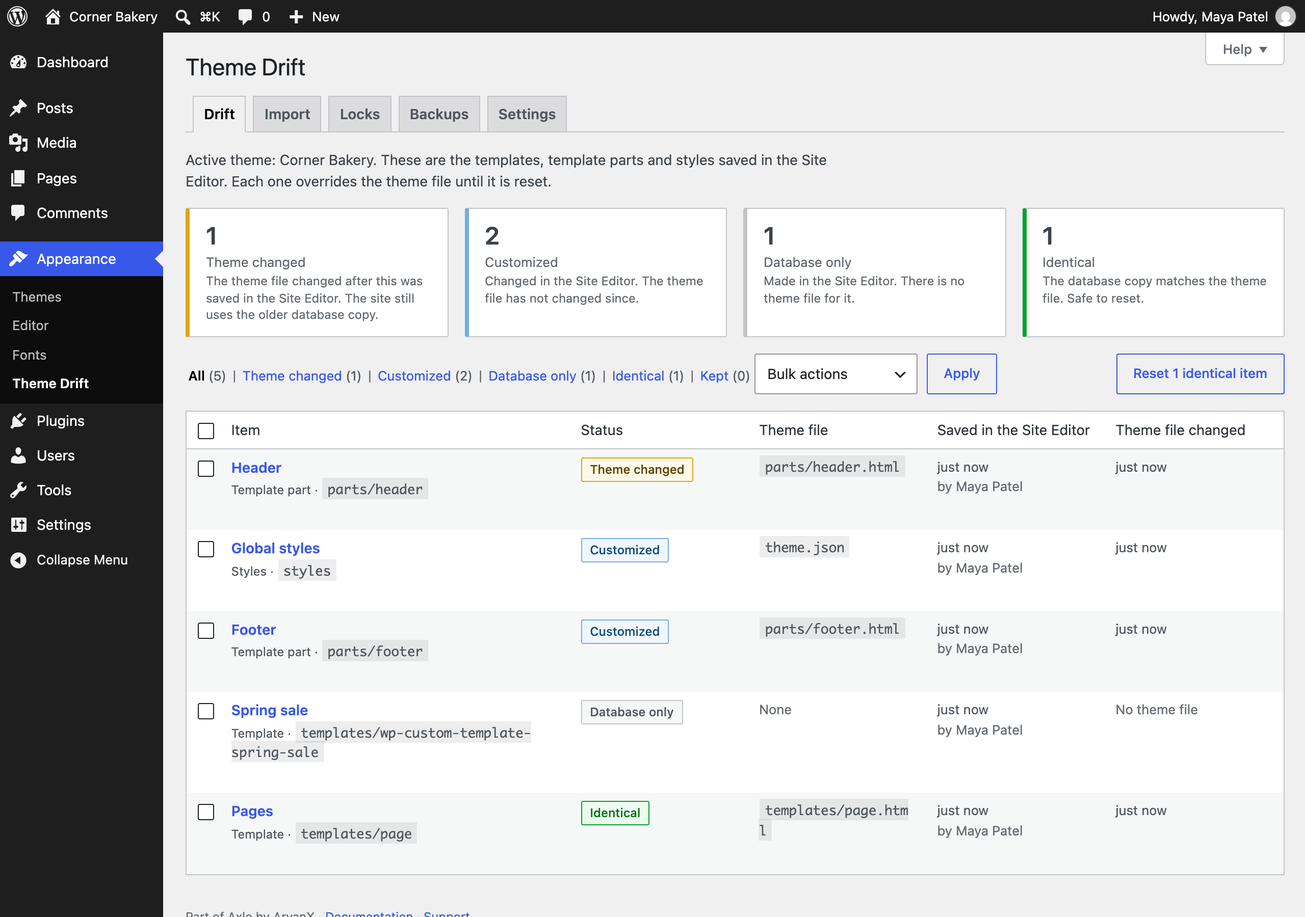
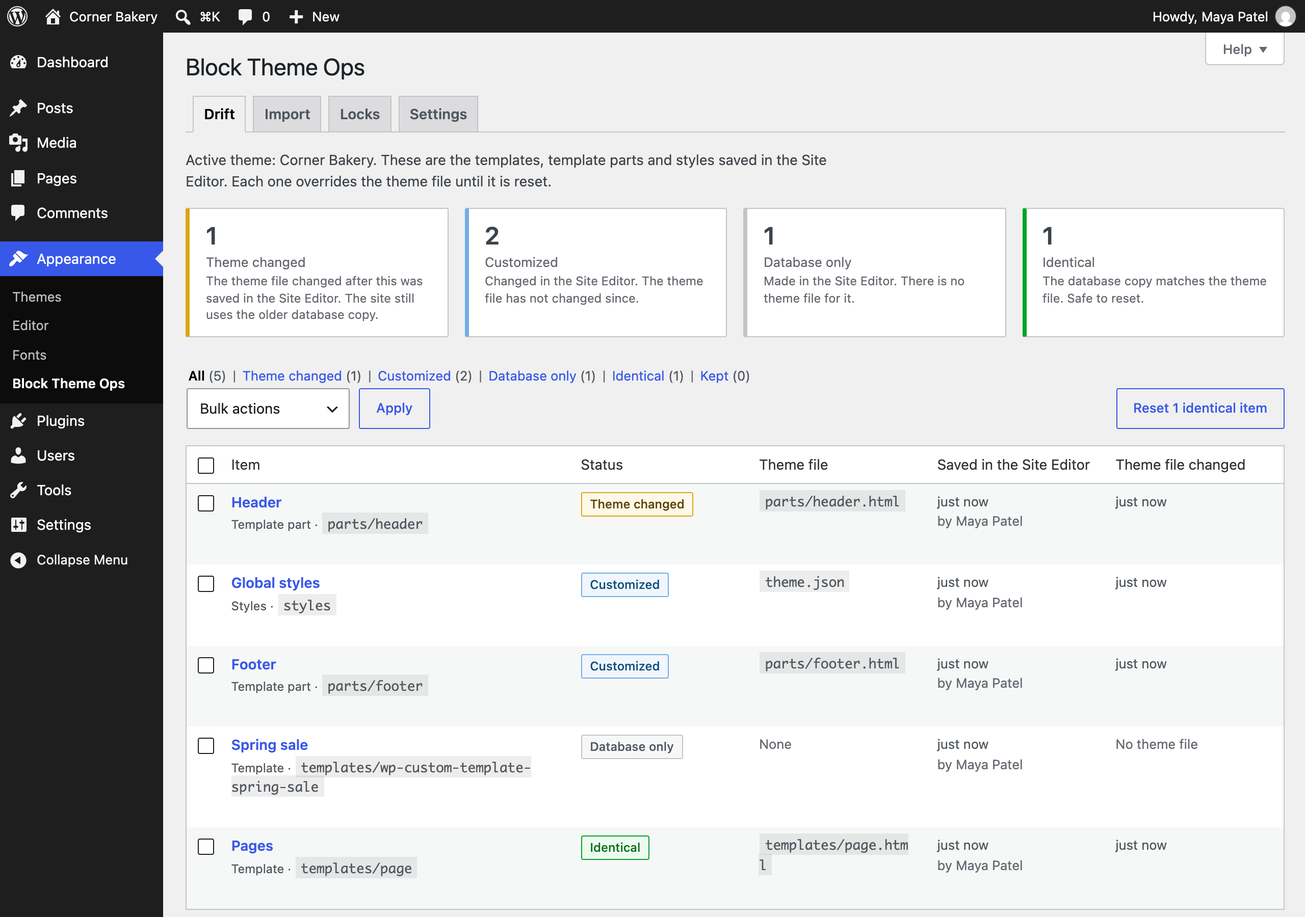
fix: plugin check findings, merge preview styles

diff --git a/assets/editor-drift.js b/assets/editor-drift.js
@@ -12,7 +12,7 @@
 
 	var config = window.blockThemeOpsDrift;
 	var wp = window.wp;
-	if ( ! config || ! wp || ! wp.data || ! wp.apiFetch || ! wp.element || ! wp.components ) {
+	if ( ! config || ! wp || ! wp.data || ! wp.apiFetch || ! wp.element || ! wp.element.createRoot || ! wp.components ) {
 		return;
 	}
 
@@ -77,13 +77,8 @@
 			)
 		);
 
-		if ( wp.element.createRoot ) {
-			modalRoot = wp.element.createRoot( host );
-			modalRoot.render( tree );
-		} else {
-			wp.element.render( tree, host );
-			modalRoot = { unmount: function () { wp.element.unmountComponentAtNode( host ); } };
-		}
+		modalRoot = wp.element.createRoot( host );
+		modalRoot.render( tree );
 	}
 
 	function announce( drift ) {

diff --git a/src/Admin/DriftPage.php b/src/Admin/DriftPage.php
@@ -2044,7 +2044,18 @@ final class DriftPage implements Service {
 					<a href="<?php echo esc_url( (string) $notice['url'] ); ?>" class="bto-pr-link" target="_blank" rel="noopener noreferrer"><?php echo esc_html( (string) $notice['url'] ); ?></a>
 				<?php endif; ?>
 				<?php if ( ! empty( $notice['settings'] ) ) : ?>
-					<a href="<?php echo esc_url( self::url( array( 'tab' => 'settings', 'github' => 1 ) ) ); ?>" class="bto-settings-link"><?php esc_html_e( 'Open the GitHub settings', 'block-theme-ops' ); ?></a>
+					<a href="
+					<?php
+					echo esc_url(
+						self::url(
+							array(
+								'tab'    => 'settings',
+								'github' => 1,
+							) 
+						) 
+					);
+					?>
+								" class="bto-settings-link"><?php esc_html_e( 'Open the GitHub settings', 'block-theme-ops' ); ?></a>
 				<?php endif; ?>
 			</p>
 			<?php if ( ! empty( $notice['undo'] ) ) : ?>
@@ -2181,7 +2192,14 @@ final class DriftPage implements Service {
 		printf(
 			/* translators: %s: link to the Settings tab. */
 			esc_html__( 'Pull requests need a repository and a token. Set them up under %s first.', 'block-theme-ops' ),
-			'<a href="' . esc_url( self::url( array( 'tab' => 'settings', 'github' => 1 ) ) ) . '">' . esc_html__( 'Settings', 'block-theme-ops' ) . '</a>'
+			'<a href="' . esc_url(
+				self::url(
+					array(
+						'tab'    => 'settings',
+						'github' => 1,
+					) 
+				) 
+			) . '">' . esc_html__( 'Settings', 'block-theme-ops' ) . '</a>'
 		);
 	}
 

diff --git a/src/Merger.php b/src/Merger.php
@@ -298,8 +298,13 @@ class Merger {
 		$styles = function_exists( 'wp_get_global_stylesheet' ) ? (string) wp_get_global_stylesheet() : '';
 		$html   = self::render( parse_blocks( $markup ) );
 
+		// The block styles come from core's own registered handle, printed the way core prints them.
+		ob_start();
+		wp_styles()->do_items( array( 'wp-block-library' ) );
+		$links = (string) ob_get_clean();
+
 		return '<!doctype html><html><head><meta charset="utf-8"><meta name="viewport" content="width=device-width, initial-scale=1">'
-			. '<link rel="stylesheet" href="' . esc_url( includes_url( 'css/dist/block-library/style.min.css' ) ) . '">'
+			. $links
 			. '<style>' . str_replace( '</style', '<\/style', $styles ) . ' body{margin:0;padding:16px}</style>'
 			. '</head><body class="wp-site-blocks">' . $html . '</body></html>';
 	}

diff --git a/docs/REFERENCE.md b/docs/REFERENCE.md
@@ -24,14 +24,44 @@ Templates and parts are looked up in the active theme first, then in its parent,
 ## Reset, undo and keep
 
 - **Reset** deletes the database copy of a template or part, or empties the global styles layer, so the theme file takes over. A backup goes into a private `bto_backup` post first. Items without a theme file cannot be reset.
-- **Undo** puts the copy back with its original post ID, theme, area and snapshot, for 30 days by default (`block_theme_ops_backup_days`). It refuses when someone customized the item again since the reset, or when the same database copy is back already, say through an undo in an activity log. The Backups tab says which one up front, instead of offering Undo.
+- **Undo** (in the list under the items on the main screen) puts the copy back with its original post ID, theme, area and snapshot, for 30 days by default (`block_theme_ops_backup_days`). It refuses when someone customized the item again since the reset, or when the same database copy is back already, say through an undo in an activity log. The Undo list says which one up front, instead of offering Undo.
 - **Keep** marks the copy as wanted. It drops out of the list, the notice, Site Health and the email until the theme file changes again. **List again** undoes it.
+
+## Merge a theme update
+
+**Merge theme changes** (on an item whose status is `theme-changed`) combines the theme's new version with the Site Editor copy, so you get the theme's fix without losing your change. Reset throws your change away and Keep ignores the theme's. Merge keeps both where it can.
+
+The three versions are:
+
+- **base**: the snapshot of the theme file, taken when the database copy was saved
+- **ours**: the database copy
+- **theirs**: the theme file now
+
+Each is read with `parse_blocks()` and compared block by block. Blocks have no IDs, so they match by name and attributes first (identical blocks, in order), then by name between blocks that matched, then by name and attributes anywhere. The `theme` attribute that the Site Editor adds to template part blocks, attribute order and whitespace are ignored.
+
+| What happened | Result |
+| --- | --- |
+| Only the theme changed, added or removed a block | The theme's version is used |
+| Only the site changed, added or removed a block | The site's version is kept |
+| Both made the same change | That change |
+| Both changed the same block differently | A **conflict**: keep this site's version or use the theme's |
+| One removed a block the other changed | A conflict: keep it removed, or bring the changed block back |
+| Both moved blocks into different orders | A conflict on the order |
+| Different blocks changed in the same group | Merged inside the group, the group's own settings from whichever side changed them |
+
+If only one side reordered blocks, that order is used. A block both sides changed is one conflict for the whole block, not a text merge inside it, because a text merge could produce markup that no longer matches its attributes.
+
+The merge screen shows what merges on its own, a choice for each conflict (the two versions side by side), the result **rendered** in a sandboxed frame, and the markup before and after. **Merge** stays off until every conflict has a choice, and applies only the result you previewed: if the template or the theme file changes in between, it asks you to look again.
+
+Applying takes one backup (kind `merge`) and writes the merged markup. The snapshot becomes the theme file as it is now, so the next theme update merges from there. **Undo** puts the earlier copy and snapshot back for 30 days, and refuses when someone saved the item again since, so it never throws their work away. Only templates and template parts can be merged: global styles are values, not blocks. An item saved before Block Theme Ops was active has no snapshot of the edit, so it cannot be merged and the screen says why.
+
+In the Site Editor, opening such a template or part shows a notice with **See what the theme changed** (the theme's own diff, in a dialog), **Merge** and **Reset**. The notice reads `GET /wp-json/block-theme-ops/v1/drift?type=wp_template_part&slug=header`, which answers only people who can edit that post, and says `drifted: false` to everyone else.
 
 ## Checks and alerts
 
 The theme files are checked right after WordPress updates or replaces the active theme or its parent (`upgrader_process_complete`), once a day by WP-Cron for deploys that bypass WordPress, and on `wp block-theme-ops check`. Items that went `theme-changed` since the last check, and are not kept, raise:
 
-- a notice for everyone with the capability on the Dashboard, Themes, Site Editor and Updates screens (`block_theme_ops_notice_screens`), and a count on the Theme Drift menu, until they are reset, kept or dismissed
+- a notice for everyone with the capability on the Dashboard, Themes, Site Editor and Updates screens (`block_theme_ops_notice_screens`), and a count on the Block Theme Ops menu, until they are reset, kept or dismissed
 - a Site Health recommendation
 - an email to the site admin, when turned on under **Settings**
 
@@ -53,7 +83,7 @@ The token comes from, in order: the `BLOCK_THEME_OPS_GITHUB_TOKEN` constant, an 
 
 ## Import
 
-**Import** on the Theme Drift screen moves Site Editor changes from one site to another, say staging to production.
+**Import** on the Block Theme Ops screen moves Site Editor changes from one site to another, say staging to production.
 
 1. On the first site, **Download zip** (or `wp block-theme-ops export --zip=<file>`). Besides the theme files, the zip holds `block-theme-ops.json`: the site address, the slug of every navigation menu the markup points at, the address of every media file it uses and the area of each template part.
 2. On the second site, upload the zip on the **Import** tab. Nothing is written yet. A plain zip laid out like the theme (`templates/*.html`, `parts/*.html`, `theme.json`, with or without a folder around them) works too.
@@ -77,8 +107,9 @@ The zip is only read as text. Paths with `..`, absolute paths, symbolic links, a
 Locks stop Site Editor saves of templates that are deployed from your theme repository.
 
 - Lock single items on the **Locks** tab (`templates/<slug>`, `parts/<slug>`, `styles`), or everything that has a theme file. Templates made only in the Site Editor have no theme file and stay open.
-- A locked item is refused on the REST routes the Site Editor saves through (`/wp/v2/templates`, `/wp/v2/template-parts`, `/wp/v2/global-styles`, also autosaves and revisions) with a 403 `block_theme_ops_locked` error, the message and an optional link in its data. The Site Editor shows a notice when someone opens a locked item.
-- Locks are enforced on the environments you tick, by `wp_get_environment_type()`. Production only is the default. Set `WP_ENVIRONMENT_TYPE` in wp-config.php.
+- A locked item is refused on the REST routes the Site Editor saves through (`/wp/v2/templates`, `/wp/v2/template-parts`, `/wp/v2/global-styles`, and a locked item's `/wp/v2/navigation`, also autosaves and revisions) with a 403 `block_theme_ops_locked` error, the message and an optional link in its data. The Site Editor shows a notice when someone opens a locked item.
+- Locks are enforced on the environments you tick, by the environment type Axle reports (`axle_environment_type`, which starts as `wp_get_environment_type()`). Staging Guard answers that filter on a copy it marks as staging, so a copy of production is free to edit even though core still says production there. Production only is the default. Set `WP_ENVIRONMENT_TYPE` in wp-config.php.
+- A **navigation menu** (`wp_navigation` post) that a locked template or part shows, directly or through a template part it includes, is locked with it: its REST route (`/wp/v2/navigation/<id>`) refuses writes and deletes with the same error, and the Site Editor shows the lock notice when the menu is open. Other menus stay open.
 - Nobody can override a lock by default. Turn the lock off on the Locks tab, or give a role the `block_theme_ops_lock_override_capability` capability. Managing locks needs `edit_theme_options` (`block_theme_ops_lock_capability`).
 - Reset, Import and Undo of this plugin write through PHP, not REST, so locks never block them. A lock stops new saves; a copy saved earlier stays until it is reset, and Site Health says so.
 - It works next to Axle Read-Only Mode: a freeze refuses writes of every kind, a lock refuses these items only, and both answer with a clear error.
@@ -87,14 +118,14 @@ Locks stop Site Editor saves of templates that are deployed from your theme repo
 
 | Hook | Type | Use |
 | --- | --- | --- |
-| `block_theme_ops_capability` | filter | `( string $capability )`. Who may use Theme Drift and the abilities. Default `edit_theme_options` |
+| `block_theme_ops_capability` | filter | `( string $capability )`. Who may use Block Theme Ops and the abilities. Default `edit_theme_options` |
 | `block_theme_ops_post_types` | filter | `( string[] $post_types )`. Tracked types. Default `wp_template`, `wp_template_part`, `wp_global_styles`. Other types are dropped |
 | `block_theme_ops_status` | filter | `( string $status, array $item )`. Change one item's status. `db-only` is only allowed for items without a file, and the other statuses only for items with one |
 | `block_theme_ops_check_schedule` | filter | `( string $recurrence )`. How often the scheduled check runs. Default `daily`. Must be a schedule from `wp_get_schedules()` |
 | `block_theme_ops_notify_recipients` | filter | `( string[] $emails, array[] $items )`. Who gets the email. Default the site admin email |
 | `block_theme_ops_notify_email` | filter | `( array $email, array[] $items )`. `to`, `subject`, `message` and `headers` before `wp_mail()`. An empty subject or message sends nothing |
 | `block_theme_ops_notice_message` | filter | `( string $message, array[] $items )`. The admin notice text. Empty hides it |
-| `block_theme_ops_notice_screens` | filter | `( string[] $screen_ids )`. Screens that show the notice. Default `dashboard`, `themes`, `site-editor` and `update-core`. Theme Drift itself never shows it. An empty list shows it nowhere; Site Health still has it |
+| `block_theme_ops_notice_screens` | filter | `( string[] $screen_ids )`. Screens that show the notice. Default `dashboard`, `themes`, `site-editor` and `update-core`. Block Theme Ops itself never shows it. An empty list shows it nowhere; Site Health still has it |
 | `block_theme_ops_undo_blocked_message` | filter | `( string $message, string $reason, array $backup )`. What the Backups tab and Undo say when a reset cannot be undone. `$reason` is `restored` (the same copy is back already) or `customized` (customized again since). Empty falls back to the default |
 | `block_theme_ops_user_name` | filter | `( string $name, int $user_id )`. The name shown for whoever saved, edited or reset an item. Default the display name, `System` when no user was logged in (WP-CLI, WP-Cron, another plugin's undo) or `Deleted user #ID`. Empty falls back to the default |
 | `block_theme_ops_backup_days` | filter | `( int $days )`. How long a reset can be undone. Default 30, kept between 1 and 3650 |
@@ -106,7 +137,7 @@ Locks stop Site Editor saves of templates that are deployed from your theme repo
 | `block_theme_ops_pr_body` | filter | `( string $body, array[] $items, array $files )`. Pull request description, in Markdown |
 | `block_theme_ops_branch_name` | filter | `( string $branch, array[] $items )`. The new branch. Names Git would refuse fall back to the default |
 | `block_theme_ops_git_provider` | filter | `( Provider $provider, Settings $settings )`. Another Git host. Return an `AryanX\Axle\BlockThemeOps\Git\Provider` |
-| `block_theme_ops_import_capability` | filter | `( string $capability )`. Who may import, here and in abilities. Default the Theme Drift capability. Each item is also checked against its post |
+| `block_theme_ops_import_capability` | filter | `( string $capability )`. Who may import, here and in abilities. Default the Block Theme Ops capability. Each item is also checked against its post |
 | `block_theme_ops_import_max_files` | filter | `( int $files )`. Most files in an imported zip. Default 200, kept between 1 and 2000 |
 | `block_theme_ops_import_max_file_size` | filter | `( int $bytes )`. Largest file in the zip once unpacked. Default 1 MiB, kept between 1 KiB and 16 MiB |
 | `block_theme_ops_import_max_size` | filter | `( int $bytes )`. Most the files add up to. Default 4 MiB, kept between 1 KiB and 64 MiB |
@@ -114,7 +145,9 @@ Locks stop Site Editor saves of templates that are deployed from your theme repo
 | `block_theme_ops_import_ttl` | filter | `( int $seconds )`. How long an uploaded zip waits for review. Default one hour, kept between 5 minutes and a day |
 | `block_theme_ops_import_related_theme` | filter | `( bool $related, string $zip_theme, string $active )`. Whether a zip made for another theme may be imported after confirming. Default a child and its parent |
 | `block_theme_ops_import_entries` | filter | `( array[] $entries, array $payload )`. The preview of an import: `key`, `type`, `slug`, `status`, `content` and `live` of each item |
-| `block_theme_ops_lock_capability` | filter | `( string $capability )`. Who may change locks. Default the Theme Drift capability |
+| `block_theme_ops_merge_blocker` | filter | `( string $reason, array $item )`. Return text to stop an item from being merged, shown on the item and in the merge screen. Default empty: it can be merged |
+| `block_theme_ops_locked_navigation_ids` | filter | `( array $ids )`. Navigation post ID => key of the locked item that uses it. Add or remove menus that locks cover |
+| `block_theme_ops_lock_capability` | filter | `( string $capability )`. Who may change locks. Default the Block Theme Ops capability |
 | `block_theme_ops_lock_override_capability` | filter | `( string $capability )`. Who may still save locked items in the Site Editor. Default empty: nobody |
 | `block_theme_ops_lock_environments` | filter | `( string[] $environments )`. Environment types where locks are enforced. Default production, or what the Locks tab says |
 | `block_theme_ops_lock_message` | filter | `( string $message, string $key )`. The text of a refused save and of the Site Editor notice. Empty falls back to the default |
@@ -124,6 +157,8 @@ Locks stop Site Editor saves of templates that are deployed from your theme repo
 | `block_theme_ops_snapshot_saved` | action | `( int $post_id, array $snapshot )`. A snapshot of a theme file was stored |
 | `block_theme_ops_reset` | action | `( array $item, int $backup_id )`. An item was reset to its theme file |
 | `block_theme_ops_reset_undone` | action | `( array $backup, int $post_id )`. A reset was undone |
+| `block_theme_ops_merged` | action | `( array $item, int $backup_id, array $plan )`. A theme update was merged into a database copy. `$plan` has `applied`, `conflicts` (with their choices) and `markup` |
+| `block_theme_ops_merge_undone` | action | `( array $backup, int $post_id )`. A merge was undone |
 | `block_theme_ops_acknowledged` | action | `( array $item )`. Someone chose Keep |
 | `block_theme_ops_backups_expired` | action | `( int[] $backup_ids )`. Backups past their undo window were deleted |
 | `block_theme_ops_exported` | action | `( array $files, array[] $items, string $context )`. Items were exported |
@@ -157,36 +192,39 @@ add_filter( 'block_theme_ops_export_files', function ( $files ) {
 
 Each item is an array: `id` (post ID), `key` (`templates/<slug>`, `parts/<slug>` or `styles`), `type`, `slug`, `title`, `theme`, `file` (path inside the theme, empty when none), `file_theme` (the child or the parent), `status`, `probable`, `kept`, `modified` and `file_modified` (Unix time), `author` and `author_name` (who last saved it, or `System` when no user was logged in).
 
-JavaScript, through `wp.hooks`, on Appearance > Theme Drift:
+JavaScript, through `wp.hooks`, on Appearance > Block Theme Ops:
 
 | Hook | Type | Use |
 | --- | --- | --- |
 | `blockThemeOps.confirmMessage` | filter | `( string message, { action, items } )`. The question asked in place before a reset, an import or a pull request. `{count}` becomes the number of items. Return `''` to skip it |
-| `blockThemeOps.beforeSubmit` | action | `( { action, items } )`. A Theme Drift form is about to be sent. `action` is `reset`, `keep`, `unkeep`, `export`, `pr`, `undo`, `reset_identical`, `import_upload`, `import_apply`, `import_discard` or `save_locks`; `items` are post IDs, or item keys for `import_apply` |
+| `blockThemeOps.beforeSubmit` | action | `( { action, items } )`. A Block Theme Ops form is about to be sent. `action` is `reset`, `keep`, `unkeep`, `export`, `pr`, `undo`, `reset_identical`, `import_upload`, `import_apply`, `import_discard` or `save_locks`; `items` are post IDs, or item keys for `import_apply` |
 
 ```js
 wp.hooks.addFilter( 'blockThemeOps.confirmMessage', 'my-plugin', ( message, details ) => ( 'reset' === details.action ? 'Did you export this first?' : message ) );
 ```
 
-In the Site Editor, when something is locked:
+In the Site Editor:
 
 | Hook | Type | Use |
 | --- | --- | --- |
 | `blockThemeOps.lockMessage` | filter | `( string message, string key )`. The text of the notice shown when a locked item opens |
+| `blockThemeOps.driftMessage` | filter | `( string message, object drift )`. The text of the notice shown when the theme changed a template or part you saved. `drift` has `key`, `auto`, `conflicts`, `canMerge`, `diff` and the two links |
 
 ## Abilities
 
-On WordPress 6.9 and later, Block Theme Ops registers [abilities](https://developer.wordpress.org/apis/abilities/), which AI agents find and run through the [MCP adapter](https://github.com/WordPress/mcp-adapter) and anything else through the REST API under `/wp-abilities/v1/`. Each one is marked public, which the MCP adapter needs before it lists an ability. The drift, diff, reset and export abilities need the Theme Drift capability, and also the edit capability of each post they touch. Import needs the import capability, and locks need the lock capability.
+On WordPress 6.9 and later, Block Theme Ops registers [abilities](https://developer.wordpress.org/apis/abilities/), which AI agents find and run through the [MCP adapter](https://github.com/WordPress/mcp-adapter) and anything else through the REST API under `/wp-abilities/v1/`. Each one is marked public, which the MCP adapter needs before it lists an ability. The drift, diff, reset and export abilities need the Block Theme Ops capability, and also the edit capability of each post they touch. Import needs the import capability, and locks need the lock capability.
 
 | Ability | Does |
 | --- | --- |
 | `block-theme-ops/get-drift-report` | Read-only. Every item with its status, and the counts. Input: `status`, `include_kept` |
 | `block-theme-ops/get-item-diff` | Read-only. The three versions of one `item` and unified diffs: `reset` (file now to database), `theme_changes` (snapshot to file now) and `customization` (snapshot to database) |
+| `block-theme-ops/preview-merge` | Read-only. For one `item` whose theme file changed after it was customized: the changes that merge on their own, the conflicts that need a choice (pass `choices`, conflict ID to `ours` or `theirs`) and the merged markup. Changes nothing |
+| `block-theme-ops/merge-theme-update` | Destructive. Saves that merge after a backup. Every conflict needs a choice in `choices`. Returns the backup ID and when the undo window ends |
 | `block-theme-ops/export-changes` | Read-only. The theme files for `items`, by path. Default: every item that is not identical |
 | `block-theme-ops/reset-to-theme` | Destructive. Resets one `item`, or every identical one with `identical: true`, keeping backups. Returns the backup IDs and when the undo window ends |
 | `block-theme-ops/preview-import` | Read-only. Reads a `zip` (base64) and says what an import would change: each item is new, changed, identical or for another theme, with the navigation menus and media this site lacks. Changes nothing |
 | `block-theme-ops/apply-import` | Destructive. Imports the `zip` (base64), all new and changed items or the keys in `items`, with `confirm_theme` for a child or parent theme. Returns the backup ID and when the undo window ends |
-| `block-theme-ops/undo-change` | Destructive. Undoes a reset or an import from its `backup_id` |
+| `block-theme-ops/undo-change` | Destructive. Undoes a reset, a merge or an import from its `backup_id` |
 | `block-theme-ops/get-locks` | Read-only. What is locked, where it is enforced, and whether it is enforced on this site |
 | `block-theme-ops/set-locks` | Changes the locks, nothing else (idempotent, not destructive). Input: `lock`, `unlock`, `all`, `environments`. Needs the lock capability |
 
@@ -199,6 +237,7 @@ wp block-theme-ops status [--status=<status>] [--kept] [--format=table|csv|json|
 wp block-theme-ops diff <item> [--against=file|theme|snapshot]
 wp block-theme-ops reset <item>... [--yes]
 wp block-theme-ops reset --identical [--yes]
+wp block-theme-ops merge <item> [--dry-run] [--ours=<ids>] [--theirs=<ids>] [--all-ours] [--all-theirs] [--yes]
 wp block-theme-ops undo <backup>
 wp block-theme-ops import <zip> [--dry-run] [--only=<items>] [--confirm-theme] [--yes] [--format=table|csv|json|yaml|count]
 wp block-theme-ops locks [--format=table|csv|json|yaml|count]
@@ -225,6 +264,8 @@ $plugin->drift()->items( array( 'status' => 'theme-changed', 'kept' => false ) )
 $item = $plugin->drift()->get( 'parts/header' );
 $plugin->operations()->reset( $item );           // array( 'item' => ..., 'backup' => 123 ) or WP_Error
 $plugin->operations()->undo( 123 );
+$plan = $plugin->merger()->plan( $item );           // markup, applied changes, conflicts; nothing written
+$plugin->merger()->apply( $item, array( 'c0.1' => 'theirs' ) );  // backs up, then merges; array or WP_Error
 $plugin->exporter()->files( array( $item ), 'cli' );
 $payload = $plugin->importer()->read_zip( '/path/to/staging.zip' );   // array or WP_Error
 $plugin->importer()->plan( $payload );                                // what would change
@@ -244,7 +285,7 @@ $plugin->checker()->run( 'cli' );                // items newly theme-changed
 | `_block_theme_ops_snapshot` post meta | The theme file at the time of the edit: contents, hash, path and time |
 | `_block_theme_ops_editor` post meta | User ID of whoever last saved the item in the Site Editor |
 | `_block_theme_ops_kept`, `_block_theme_ops_notified` post meta | Hash of the theme file when it was kept, and when it was last reported |
-| `bto_backup` posts | Reset items and imports, with the user IDs of who last edited and who reset or imported them, until the undo window ends |
+| `bto_backup` posts | Reset items, merged items and imports, with the user IDs of who last edited and who reset or imported them, until the undo window ends |
 | `block_theme_ops_check` cron event | The scheduled check |
 
 Uninstalling removes all of it on every site of a network. The Site Editor changes themselves stay.

diff --git a/README.md b/README.md
@@ -16,7 +16,7 @@
   <a href="https://github.com/aryanjasala/block-theme-ops/actions/workflows/plugin-check.yml"><img src="https://github.com/aryanjasala/block-theme-ops/actions/workflows/plugin-check.yml/badge.svg" alt="Plugin Check"></a>
 </p>
 
-<p align="center">Find the Site Editor changes that override your theme files, see what a theme deploy left behind, then reset them, send them to Git, import them on another site or lock them.</p>
+<p align="center">Find the Site Editor changes that override your theme files, merge what a theme update changed into them without losing yours, or reset them, send them to Git, import them on another site or lock them.</p>
 
 <p align="center">
   <img src=".github/media/demo.gif" alt="A theme deploy left an edited header behind: the notice, the three-way diff, a pull request, then reset and undo" width="880">
@@ -24,7 +24,7 @@
 
 ---
 
-When someone edits a template, template part or the global styles in the Site Editor, WordPress saves a copy in the database and the site ignores the theme file from then on. Deploy a new version of the theme and nothing tells you the site still shows the old one. Block Theme Ops lists every one of those copies, tells you which ones now hide a newer theme file, and resets them or sends them to the theme's Git repository. It also moves the changes made on staging to production, with a preview first and one Undo, and locks the templates that belong to Git so nobody edits them in the Site Editor by mistake.
+When someone edits a template, template part or the global styles in the Site Editor, WordPress saves a copy in the database and the site ignores the theme file from then on. Deploy a new version of the theme and nothing tells you the site still shows the old one. Block Theme Ops lists every one of those copies, tells you which ones now hide a newer theme file, and merges the theme's new version into your changes, block by block, or resets them or sends them to the theme's Git repository. It also moves the changes made on staging to production, with a preview first and one Undo, and locks the templates that belong to Git so nobody edits them in the Site Editor by mistake.
 
 > [!NOTE]
 > Free and open source under the GPL. No pro version, no upsells, no ads in wp-admin, no tracking. And it stays that way.
@@ -34,12 +34,14 @@ When someone edits a template, template part or the global styles in the Site Ed
 - **Every Site Editor change** of the active theme (and its parent): templates, template parts and global styles, with the theme file, who saved it and when
 - **Drift status**: theme changed (the file changed after the edit, so the site ignores it), customized, database only, identical
 - **Three-way view**: the theme file at the time of the edit, the theme file now and the database copy, as diffs
+- **Merge a theme update** into a customized template or part: the theme's changes and yours are combined block by block. Changes only one side made merge on their own, a block both sides changed asks you which version to keep, and you see the result rendered before anything is saved. One Undo puts your earlier copy back
+- **In the Site Editor**: open a template or part whose theme file changed since you saved it and a notice says so, with **See what the theme changed**, **Merge** and **Reset**
 - **Reset to theme file** with a backup, and **Undo** for 30 days. **Keep** hides an item until its file changes again. Identical copies reset in bulk
 - **After a theme update**, and once a day for Git or SFTP deploys: an admin notice, a Site Health check and an optional email
 - **Export** a zip laid out like the theme, or open a **GitHub pull request** with the changes as one commit
 - **WP-CLI** for every action, with `wp block-theme-ops check` exiting 1 for CI and deploy scripts, and **abilities** for AI agents on WordPress 6.9+
 - **Import** the zip of another site (staging to production): a preview per item (new, changed, identical or for another theme), a three-way view where this site has its own change, navigation menus mapped by slug, the site address rewritten and missing media listed. One Undo for 30 days
-- **Locks** stop Site Editor and REST saves of chosen templates, template parts or the global styles, on production by default, with a message that says where to change them and a notice when the Site Editor opens
+- **Locks** stop Site Editor and REST saves of chosen templates, template parts or the global styles, and of the navigation menus a locked part uses. They are on in production by default, follow Staging Guard's environment on copies, and say where to change things when the Site Editor opens
 
 ## Install
 
@@ -62,6 +64,14 @@ Stop a deploy, or fail CI, when Site Editor changes hide the new theme files:
 wp block-theme-ops check || wp block-theme-ops status --status=theme-changed
 wp block-theme-ops diff parts/header --against=theme
 wp block-theme-ops export --pr
+```
+
+Merge the theme's new version into a customized template, keeping your change:
+
+```sh
+wp block-theme-ops merge parts/header --dry-run
+wp block-theme-ops merge parts/header --all-ours --yes
+wp block-theme-ops undo 124
 ```
 
 Move the changes made on staging to production, then undo if it is wrong:
@@ -89,7 +99,7 @@ define( 'BLOCK_THEME_OPS_GITHUB_TOKEN', 'github_pat_...' );
 
 <table>
   <tr>
-    <td width="50%" valign="top"><img src=".wordpress-org/screenshot-1.png" alt="Appearance > Theme Drift: counts per status and every Site Editor change of the active theme"><br><sub>Appearance > Theme Drift: counts per status and every Site Editor change of the active theme</sub></td>
+    <td width="50%" valign="top"><img src=".wordpress-org/screenshot-1.png" alt="Appearance > Block Theme Ops: counts per status and every Site Editor change of the active theme"><br><sub>Appearance > Block Theme Ops: counts per status and every Site Editor change of the active theme</sub></td>
     <td width="50%" valign="top"><img src=".wordpress-org/screenshot-2.png" alt="One template part: the database copy against the theme file now, and what the theme changed since the edit"><br><sub>One template part: the database copy against the theme file now, and what the theme changed since the edit</sub></td>
   </tr>
   <tr>
@@ -99,6 +109,13 @@ define( 'BLOCK_THEME_OPS_GITHUB_TOKEN', 'github_pat_...' );
   <tr>
     <td width="50%" valign="top"><img src=".wordpress-org/screenshot-5.png" alt="The Import tab: what a zip from another site would change, item by item"><br><sub>The Import tab: what a zip from another site would change, item by item</sub></td>
     <td width="50%" valign="top"><img src=".wordpress-org/screenshot-6.png" alt="The Locks tab: which templates cannot be saved from the Site Editor"><br><sub>The Locks tab: which templates cannot be saved from the Site Editor</sub></td>
+  </tr>
+  <tr>
+    <td width="50%" valign="top"><img src=".wordpress-org/screenshot-7.png" alt="Merging a theme update: what merges on its own, a choice for the one conflict, and the result"><br><sub>Merging a theme update: what merges on its own, a choice for the one conflict, and the result</sub></td>
+    <td width="50%" valign="top"><img src=".wordpress-org/screenshot-8.png" alt="The Site Editor says the theme changed a template, with the diff, Merge and Reset"><br><sub>The Site Editor says the theme changed a template, with the diff, Merge and Reset</sub></td>
+  </tr>
+  <tr>
+    <td width="50%" valign="top"><img src=".wordpress-org/screenshot-9.png" alt="Undo for a merge and a reset, in the list under the items"><br><sub>Undo for a merge and a reset, in the list under the items</sub></td>
   </tr>
 </table>
 
@@ -125,6 +142,9 @@ src/
 ├── Snapshots.php          snapshot of the theme file on every save
 ├── Markup.php             compares and pretty-prints block markup
 ├── StylesJson.php         the global styles layer on top of theme.json
+├── BlockMerge.php         the three-way merge of block trees, pure
+├── Merger.php             plans, applies and undoes a merge
+├── Rest.php               the route behind the Site Editor drift notice
 ├── Operations.php         reset, undo and keep
 ├── Backups.php            backups behind Undo
 ├── Alerts.php             items waiting for review
@@ -136,10 +156,10 @@ src/
 ├── Diff.php               unified diffs for WP-CLI and abilities
 ├── Abilities.php          abilities for AI agents (WordPress 6.9+)
 ├── Privacy.php            policy text, export and erase
-├── Admin/                 Appearance > Theme Drift and the admin notice
+├── Admin/                 Appearance > Block Theme Ops and the admin notice
 ├── Health/SiteHealth.php  Site Health test
 └── Cli/Command.php        wp block-theme-ops
-assets/                    admin.css, admin.js, editor-lock.js
+assets/                    admin.css, admin.js, editor-lock.js, editor-drift.js
 tests/
 ├── Unit/                  PHPUnit
 └── e2e/                   Playwright specs, a small test theme and a GitHub stand-in
